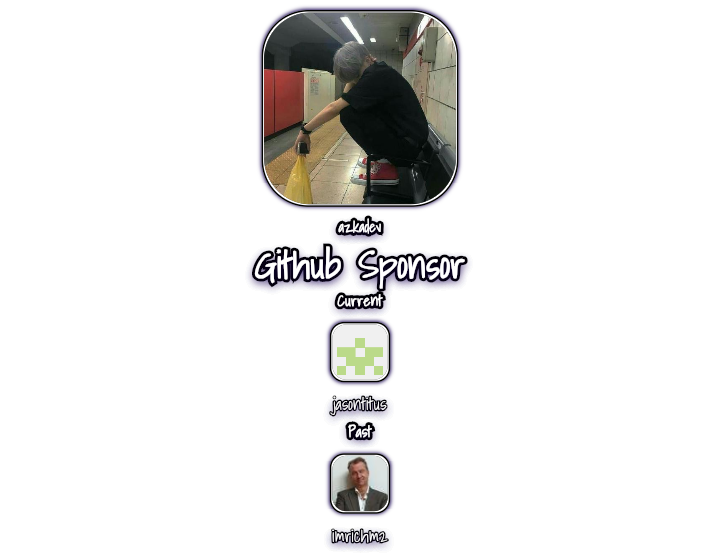
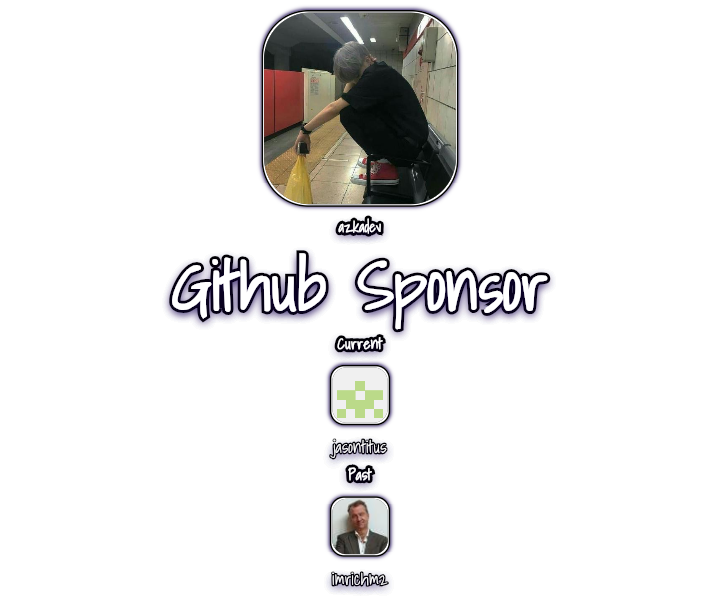
up

Changed region(s): [[0.2139, 0.0, 0.7639, 0.9837]]

diff --git a/package/github_sponsor_flutter/lib/page/sponsor_page.dart b/package/github_sponsor_flutter/lib/page/sponsor_page.dart
@@ -259,7 +259,7 @@ class _SponsorPageState extends State<SponsorPage> {
                         TextStyle textStyle = TextStyle(
                           color: context.theme.indicatorColor,
                           fontWeight: FontWeight.bold,
-                          fontSize: context.height / 27,
+                          fontSize: context.height / 15,
                           fontFamily: "ShadowsIntoLight",
                           shadows: [
                             BoxShadow(
